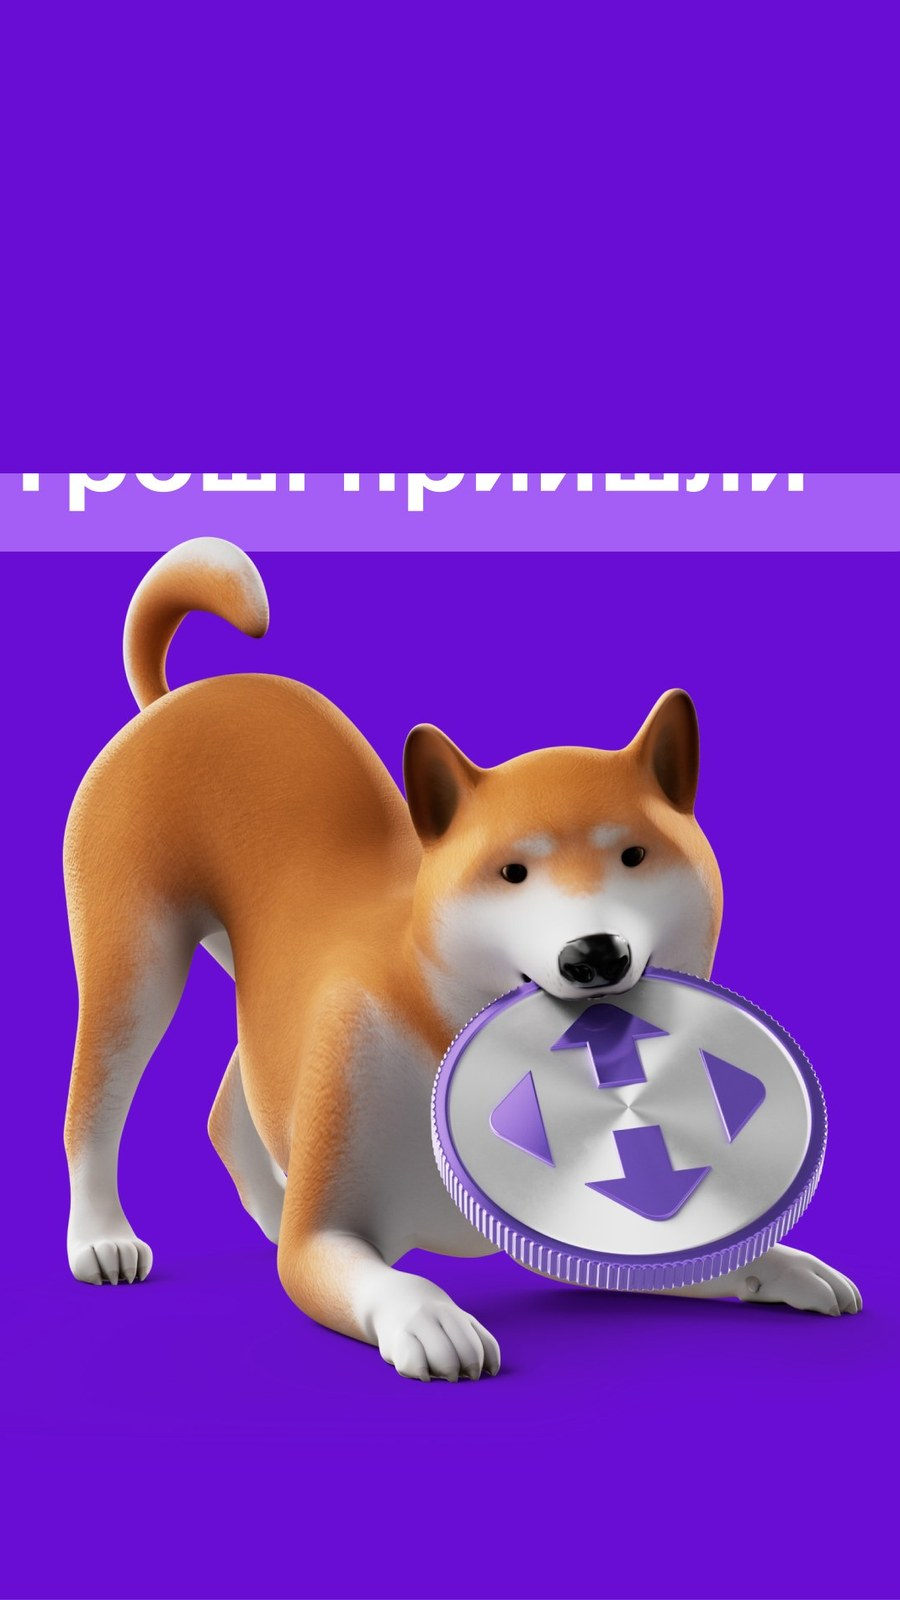
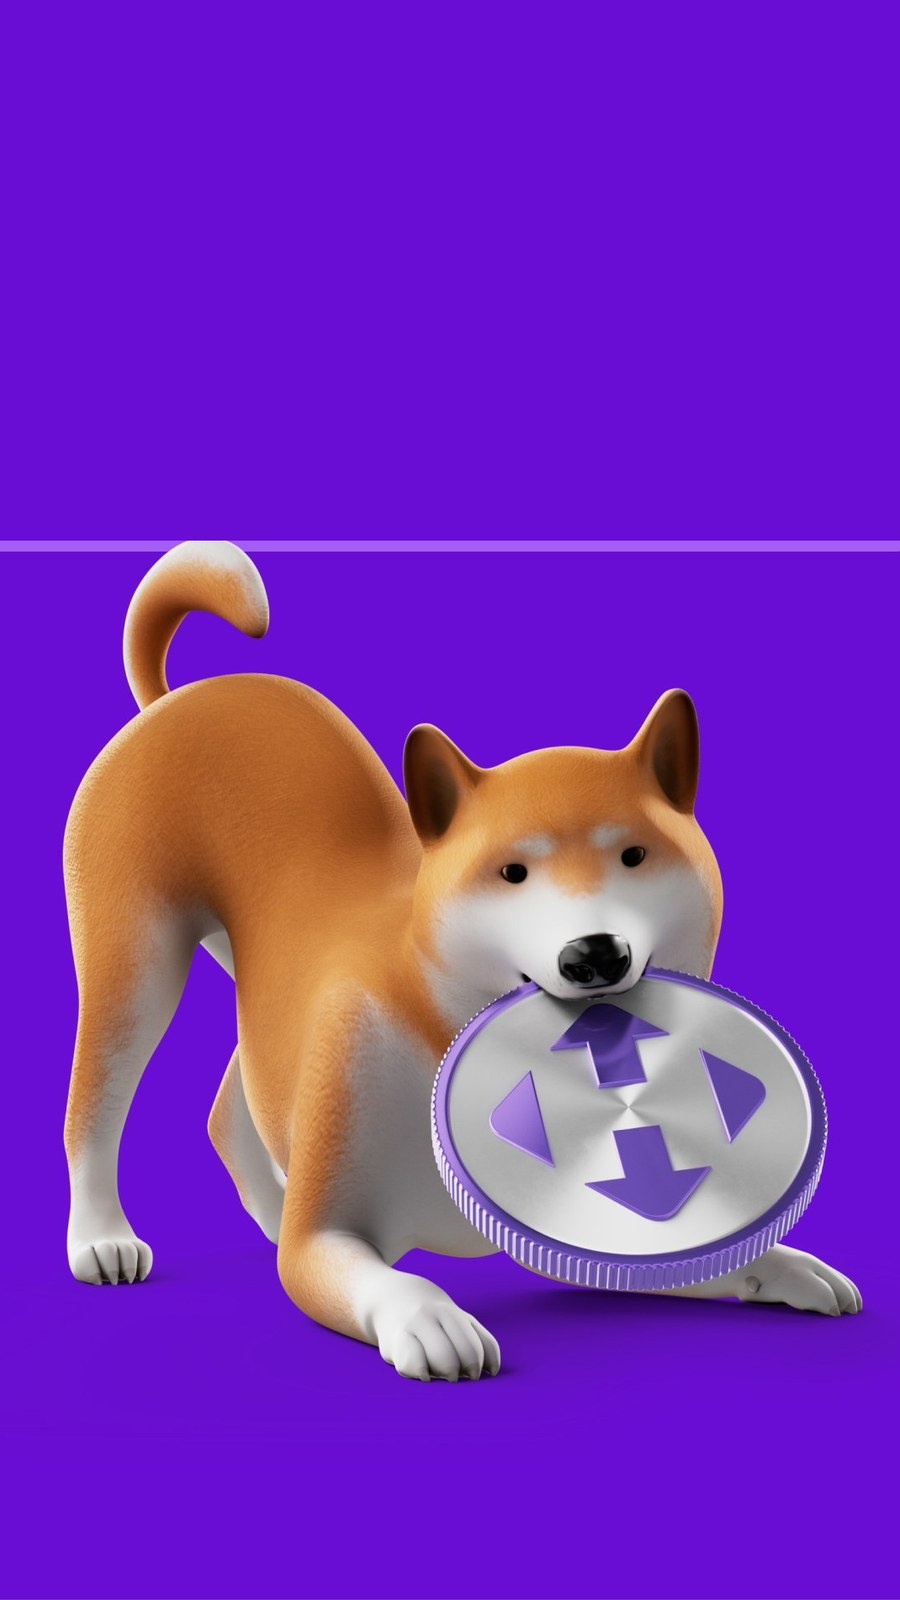
Презентація: аудит, раунд 4 — ч/б фото на розділах, кліренс як елемент, одна підсвітка рядка, вирівнювання шапок і карток, нумеровані пункти без маркера

Changed region(s): [[0.0, 0.2812, 1.0, 0.3438]]

diff --git a/components/deck/DeckPages.tsx b/components/deck/DeckPages.tsx
@@ -65,7 +65,9 @@ export const DECK_CSS = `
   #deck-a4 .t-gallery .lead{ font-size:calc(17pt * var(--k,1)); font-style:italic; color:var(--acc); }
 
   /* тіло сторінки */
-  #deck-a4 .pb{ display:flex; flex-direction:column; flex:1; min-height:0; padding-bottom:7mm; }
+  #deck-a4 .pb{ display:flex; flex-direction:column; flex:1; min-height:0; }
+  /* нижній кліренс як елемент (не padding): переповнення у нього рахується автопідбором */
+  #deck-a4 .sheet:not(.t-about):not(.t-cover):not(.t-section):not(.t-closing) .pb::after{ content:""; display:block; flex:none; height:7mm; }
   #deck-a4 .sheet[data-sparse] .pb{ justify-content:flex-start; padding-bottom:0; }
   #deck-a4 .t-cover .pb, #deck-a4 .t-section .pb, #deck-a4 .t-closing .pb{ display:contents; }
 
@@ -73,6 +75,8 @@ export const DECK_CSS = `
   #deck-a4 ul.bul{ list-style:none; margin-top:5mm; display:flex; flex-direction:column; gap:calc(2.6mm * var(--k,1)); max-width:180mm; }
   #deck-a4 ul.bul li{ position:relative; padding-left:6mm; font-size:calc(12.5pt * var(--k,1)); line-height:1.5; }
   #deck-a4 ul.bul li::before{ content:""; position:absolute; left:0; top:.55em; width:3.6pt; height:3.6pt; border-radius:99px; background:var(--amber); }
+  #deck-a4 ul.bul li[data-num]{ padding-left:0; }
+  #deck-a4 ul.bul li[data-num]::before{ display:none; }
   #deck-a4 ul.bul.sm li{ font-size:calc(10.8pt * var(--k,1)); line-height:1.45; }
   #deck-a4 ul.bul.sm{ gap:2mm; margin-top:3mm; }
 
@@ -96,7 +100,7 @@ export const DECK_CSS = `
   #deck-a4 .cols[data-n="3"]{ grid-template-columns:repeat(3,1fr); }
   #deck-a4 .cols[data-n="4"]{ grid-template-columns:repeat(4,1fr); column-gap:5mm; }
   #deck-a4 .cols[data-n="4"] .col{ padding:4mm 4.5mm 4.5mm; }
-  #deck-a4 .cols[data-n="4"] .col h3{ min-height:3.9em; }
+  #deck-a4 .cols[data-n="4"] .col h3, #deck-a4 .cols[data-n="3"] .col h3{ min-height:3.9em; }
   #deck-a4 .col h3{ font-family:var(--font-spectral),serif; font-style:italic; font-weight:500; font-size:calc(13.5pt * var(--k,1)); color:var(--acc); line-height:1.25; padding-bottom:2mm; border-bottom:1px solid var(--line); }
 
   /* steps */
@@ -108,12 +112,12 @@ export const DECK_CSS = `
 
   /* table */
   #deck-a4 table{ width:100%; border-collapse:collapse; margin-top:6mm; font-size:calc(10.5pt * var(--k,1)); line-height:1.42; }
-  #deck-a4 th{ text-align:left; font-family:var(--font-jetbrains),monospace; font-size:7.8pt; letter-spacing:.12em; text-transform:uppercase; color:var(--faint); padding:0 6mm 2.4mm 0; border-bottom:1px solid var(--ink); font-weight:500; }
+  #deck-a4 th{ text-align:left; vertical-align:bottom; font-family:var(--font-jetbrains),monospace; font-size:7.8pt; letter-spacing:.12em; text-transform:uppercase; color:var(--faint); padding:0 6mm 2.4mm 0; border-bottom:1px solid var(--ink); font-weight:500; }
   #deck-a4 td{ vertical-align:top; padding:calc(2.8mm * var(--k,1)) 3mm calc(2.8mm * var(--k,1)) 0; border-bottom:1px solid var(--line); }
   #deck-a4 td:first-child{ color:var(--acc); font-family:var(--font-spectral),serif; font-style:italic; font-size:calc(11pt * var(--k,1)); width:17%; }
   #deck-a4 table[data-num] td:first-child{ width:6%; white-space:nowrap; }
   #deck-a4 table[data-cols="4"]:not(.ws) td:nth-child(2){ width:34%; } #deck-a4 table[data-cols="4"]:not(.ws) td:nth-child(3){ width:22%; }
-  #deck-a4 table[data-num] td:nth-child(3){ width:24%; }
+  #deck-a4 table[data-num][data-cols="3"] td:nth-child(3), #deck-a4 table[data-num][data-cols="3"] th:nth-child(3){ width:42%; }
   #deck-a4 td[contenteditable]:empty{ min-height:6mm; display:block; }
 
   /* cover */
@@ -171,9 +175,9 @@ export const DECK_CSS = `
   #deck-a4 .t-about .stat:first-child{ border-left:0; padding-left:0; }
   #deck-a4 .t-about .stat .n{ font-family:var(--font-spectral),serif; font-style:italic; font-weight:500; font-size:22pt; line-height:1; color:var(--acc); }
   #deck-a4 .t-about .stat .t{ font-size:9pt; line-height:1.45; color:var(--muted); margin-top:2mm; }
-  #deck-a4 .t-about .bottom{ display:grid; grid-template-columns:1fr 1fr; column-gap:12mm; margin-top:5mm; align-items:start; }
+  #deck-a4 .t-about .bottom{ display:grid; grid-template-columns:1fr 1fr; column-gap:12mm; margin-top:3mm; align-items:start; }
   #deck-a4 .t-about .bottom ul.bul{ margin-top:3mm; gap:2mm; }
-  #deck-a4 .t-about .bottom ul.bul li{ font-size:9.4pt; line-height:1.45; }
+  #deck-a4 .t-about .bottom ul.bul li{ font-size:9.4pt; line-height:1.35; }
   #deck-a4 .t-about .note{ font-size:9.4pt; line-height:1.5; color:var(--ink); margin-top:3mm; }
   #deck-a4 .t-about .note:empty{ display:none; }
   #deck-a4 .t-about .logos{ display:block; width:100%; max-width:150mm; max-height:16mm; object-fit:contain; object-position:left; margin-top:6mm; }
@@ -192,7 +196,9 @@ export const DECK_CSS = `
   #deck-a4 .t-section .secimg.panel{ display:flex; align-items:center; justify-content:center; background:radial-gradient(120% 90% at 30% 20%,#7A45E6 0%,#5E2AC4 55%,#3F167F 100%); }
   #deck-a4 .t-section .secimg.panel img{ width:74%; height:auto; object-fit:contain; filter:drop-shadow(0 22px 34px rgba(20,0,60,.45)); }
   #deck-a4 .t-section.has-img .rh, #deck-a4 .t-section.has-img .foot{ margin-right:112mm; }
-  #deck-a4 .t-section.has-img .secwrap{ padding-right:112mm; position:relative; z-index:1; }
+  #deck-a4 .t-section.has-img .secwrap{ padding-right:112mm; position:relative; z-index:1; align-items:start; }
+  #deck-a4 .t-section.has-img .num{ margin-top:9mm; }
+  #deck-a4 .t-section.is-step .num{ margin-top:10mm; }
   #deck-a4 .t-section.has-img .num{ font-size:120pt; }
   #deck-a4 .t-section.is-step .num{ font-size:88pt; }
   #deck-a4 .t-section.is-step h1{ font-size:26pt; }
@@ -221,7 +227,7 @@ export const DECK_CSS = `
   #deck-a4 .cards[data-n="7"] .card .t, #deck-a4 .cards[data-n="8"] .card .t{ font-size:calc(10.5pt * var(--k,1)); }
 
   /* ── репліки (bullets variant=bubbles) ── */
-  #deck-a4 .bubbles{ display:flex; flex-direction:column; gap:calc(3mm * var(--k,1)); margin-top:6mm; max-width:215mm; }
+  #deck-a4 .bubbles{ display:flex; flex-direction:column; gap:calc(3mm * var(--k,1)); margin-top:6mm; max-width:215mm; padding-bottom:3mm; }
   #deck-a4 .bubble{ position:relative; align-self:flex-start; background:var(--band); border-radius:12px 12px 12px 3px; padding:3.2mm 6mm 3.2mm 9mm; font-family:var(--font-spectral),serif; font-style:italic; font-size:calc(12.5pt * var(--k,1)); line-height:1.4; max-width:190mm; }
   #deck-a4 .bubble::before{ content:"“"; position:absolute; left:3mm; top:1.2mm; font-family:var(--font-playfair),serif; font-size:calc(20pt * var(--k,1)); line-height:1; color:var(--amber); font-style:normal; }
   #deck-a4 .bubble:nth-child(even){ margin-left:0; }
@@ -232,7 +238,7 @@ export const DECK_CSS = `
   #deck-a4 .cols{ align-items:stretch; }
 
   /* ── кроки як таймлайн ── */
-  #deck-a4 .step{ grid-template-columns:8mm 80mm 1fr; column-gap:5mm; border-top:0; padding:calc(3.6mm * var(--k,1)) 0; align-items:start; }
+  #deck-a4 .step{ grid-template-columns:8mm var(--lw,80mm) 1fr; column-gap:5mm; border-top:0; padding:calc(3.6mm * var(--k,1)) 0; align-items:start; }
   #deck-a4 .step::before{ content:""; position:absolute; left:2.9mm; top:0; bottom:0; width:1px; background:var(--line); }
   #deck-a4 .step{ position:relative; }
   #deck-a4 .step:first-child::before{ top:50%; }
@@ -244,15 +250,15 @@ export const DECK_CSS = `
   #deck-a4 .qp{ display:grid; grid-template-columns:1fr 128mm; gap:16mm; flex:1; align-items:center; min-height:0; margin-top:4mm; }
   #deck-a4 .qp .q{ font-family:var(--font-spectral),serif; font-style:italic; font-size:26pt; line-height:1.32; color:var(--ink); max-width:130mm; }
   #deck-a4 .qp .q::before{ content:"“"; display:block; font-family:var(--font-playfair),serif; font-style:normal; font-size:80pt; line-height:.55; color:var(--amber); margin-bottom:4mm; }
-  #deck-a4 .qp .fig{ width:128mm; height:118mm; overflow:hidden; border-radius:5px; box-shadow:0 14px 34px rgba(60,40,15,.18); }
-  #deck-a4 .qp .fig img{ width:100%; height:100%; object-fit:cover; object-position:center 30%; display:block; }
+  #deck-a4 .qp .fig{ width:128mm; height:118mm; overflow:hidden; border-radius:0; box-shadow:none; }
+  #deck-a4 .qp .fig img{ width:100%; height:100%; object-fit:cover; object-position:42% 28%; display:block; transform:scale(1.28); transform-origin:42% 28%; }
 
   /* ── галерея психотипів: кольорова смуга ── */
   #deck-a4 .gal[data-chip="red"] img{ border-top:5pt solid #D9342B; }
   #deck-a4 .gal[data-chip="yellow"] img{ border-top:5pt solid #F2C230; }
   #deck-a4 .gal[data-chip="blue"] img{ border-top:5pt solid #2F62C7; }
   #deck-a4 .gal img{ height:108mm; box-shadow:0 10px 26px rgba(60,40,15,.14); object-position:center 25%; }
-  #deck-a4 .gal figure:has(figcaption:not(:empty)) img{ object-fit:cover; object-position:center; height:100mm; }
+  #deck-a4 .gal figure:has(figcaption:not(:empty)) img{ object-fit:cover; object-position:center; height:100mm; mix-blend-mode:multiply; border:0; }
 
   /* ── таблиці: зебра ── */
   #deck-a4 tbody tr:nth-child(even) td{ background:rgba(244,236,220,.55); }
@@ -276,6 +282,7 @@ export const DECK_CSS = `
   #deck-a4 .card .t:empty{ flex:1; min-height:22mm; background:linear-gradient(to top,var(--line) .25mm,transparent .25mm) left bottom / 100% 8.6mm repeat-y; }
   /* ── таблиця психотипів після галереї: активний рядок ── */
   #deck-a4 table[data-hl] tr[data-chip]{ opacity:.74; }
+  #deck-a4 table[data-hl] tbody tr td{ background:transparent; }
   #deck-a4 table[data-hl="red"] tr[data-chip="red"], #deck-a4 table[data-hl="yellow"] tr[data-chip="yellow"], #deck-a4 table[data-hl="blue"] tr[data-chip="blue"]{ opacity:1; }
   #deck-a4 table[data-hl="red"] tr[data-chip="red"] td, #deck-a4 table[data-hl="yellow"] tr[data-chip="yellow"] td, #deck-a4 table[data-hl="blue"] tr[data-chip="blue"] td{ background:var(--band) !important; }
   /* ── заголовки: без пробілу після дефіса, без розриву «5‑й» ── */
@@ -375,7 +382,7 @@ function EList({
       }}
     >
       {items.map((it, i) => (
-        <li key={i}>{typo(it)}</li>
+        <li key={i} data-num={/^\s*\d+\s*[.)]/.test(it) ? "1" : undefined}>{typo(it)}</li>
       ))}
     </ul>
   );
@@ -691,7 +698,7 @@ function PageBody({ p, set, editable, prev }: { p: DeckPage; set: Patch; editabl
         <WithImg image={p.image}>
           <Title p={p} set={set} editable={e} />
           <E tag="p" className="lead" value={p.lead} onChange={(v) => set({ lead: v })} editable={e} ph="лід" />
-          <div className="steps">
+          <div className="steps" style={{ ["--lw" as any]: (() => { const m = Math.max(0, ...p.steps.map((x) => x.head.length)); return m <= 16 ? "58mm" : m <= 34 ? "80mm" : "100mm"; })() } as any}>
             {p.steps.map((st, k) => (
               <div className="step" key={k}>
                 <span className="dot" />

diff --git a/lib/decks/novapay.ts b/lib/decks/novapay.ts
@@ -142,18 +142,18 @@ export const NOVAPAY_DECK: Deck = {
     // 30
     { id: "s30", type: "bullets", title: "Структура", titleEm: "телефонної розмови", lead: "", items: ["Підготовка та планування дзвінка", "Привітання та налагодження контакту.", "Виявлення / формування потреб", "Презентація рішення.", "Робота з запереченнями / сумнівами.", "Перехід до дії і узгодження наступних кроків.", "Завершення розмови."], callout: "" },
     // 31
-    { id: "s31", type: "section", num: "1", title: "1-й крок. Підготовка та планування дзвінка", sub: "", image: I + "tania-laptop.jpg" },
+    { id: "s31", type: "section", num: "1", title: "1-й крок. Підготовка та планування дзвінка", sub: "", image: I + "tania-laptop-bw2.jpg" },
     // 32
     { id: "s32", type: "bullets", variant: "cards", title: "Підготовка", titleEm: "до дзвінку", lead: "Ціль дзвінка:", items: ["1) продати — продукти, сервіси", "2) вирішити / відповісти на питання;", "3) перенаправити до іншого відділу.", "позитивне налаштування", "закохати в NovaPay"], callout: "" },
     // 33
-    { id: "s33", type: "section", num: "2", title: "2-й крок. Привітання та налагодження контакту", sub: "", image: I + "tania-mic.jpg" },
+    { id: "s33", type: "section", num: "2", title: "2-й крок. Привітання та налагодження контакту", sub: "", image: I + "tania-hall-bw.jpg" },
     // 34
     { id: "s34", type: "twocol", title: "Структура телефонних продажів.", titleEm: "1. Привітання та налагодження контакту", lead: "Створюємо рапорт — формуємо підсвідому довіру клієнта!", cols: [
       { head: "Що працює", items: ["Позитивний настрой", "Smart talk / комплімент", "Звертайтесь по імені (це завжди залучає в діалог)"] },
       { head: "Три табу", items: ["Політика", "Релігія", "Секс"] },
     ] },
     // 35
-    { id: "s35", type: "section", num: "", title: "Психотипи клієнтів — правила взаємодії", sub: "", image: I + "tania-hall.jpg" },
+    { id: "s35", type: "section", num: "", title: "Психотипи клієнтів — правила взаємодії", sub: "", image: I + "tania-chair-bw.jpg" },
     // 36
     { id: "s36", type: "twocol", title: "Психологічні", titleEm: "типи клієнтів", lead: "", cols: [
       { head: "Червоний — діяльність та активність", items: ["1. Статус / визнання"] },
@@ -193,7 +193,7 @@ export const NOVAPAY_DECK: Deck = {
       ["1", "Хто довго пам'ятає критику на свою адресу?", "Червоний"], ["2", "Хто любить ретельно / детально планувати?", "Синій"], ["3", "Кому подобається займатися підрахунками та аналітикою?", "Синій"], ["4", "Хто любить «перемити кісточки» друзям / знайомим?", "Жовтий"], ["5", "У кого не вистачає терпіння детально планувати?", "Жовтий"], ["6", "Кому подобається приймати рішення у складних ситуаціях?", "Червоний"], ["7", "Хто краще згладжує конфлікт зі складними «клієнтами»?", "Жовтий"], ["8", "Хто часто запізнюється? (ч — королів чекають, ж — я не слідкую за часом)", "Черв / жовт"], ["9", "Нічого особистого, просто бізнес.", "Червоний"], ["10", "Кому важливо мати якомога більше фактів для прийняття рішення?", "Синій"],
     ], callout: "" },
     // 45
-    { id: "s45", type: "section", num: "3", title: "3-й крок. Виявлення / формування потреб в телефонних продажах", sub: "", image: I + "tania-flip.jpg" },
+    { id: "s45", type: "section", num: "3", title: "3-й крок. Виявлення / формування потреб в телефонних продажах", sub: "", image: I + "tania-flip-bw.jpg" },
     // 46
     { id: "s46", type: "twocol", title: "Структура телефонних продажів. 2-й крок.", titleEm: "Типи питань", lead: "", cols: [
       { head: "Закриті запитання", items: ["Дають мало інформації;", "Відповідь так чи ні;", "Потрібні для перевірки або завершення."] },
@@ -215,7 +215,7 @@ export const NOVAPAY_DECK: Deck = {
     // 50
     { id: "s50", type: "bullets", variant: "cards", title: "Структура телефонних продажів. 2-й крок.", titleEm: "Активне слухання", lead: "", items: ["1. Розуміння стану співрозмовника.", "2. Розуміння позиції співрозмовника.", "3. Постійно «показуємо», що ми чуємо.", "4. Увага до деталей."], callout: "Головне правило: 1 питання — 1 відповідь + :)" },
     // 51
-    { id: "s51", type: "section", num: "4", title: "4-й крок. Презентація рішення — ХПВ (характеристика-перевага-вигода)", sub: "", image: I + "tania-chair.jpg" },
+    { id: "s51", type: "section", num: "4", title: "4-й крок. Презентація рішення — ХПВ (характеристика-перевага-вигода)", sub: "", image: I + "tania.jpg" },
     // 52
     { id: "s52", type: "twocol", title: "Презентація рішень", titleEm: "на основі потреб клієнта", lead: "Х — Характеристики · П — Переваги · В — Вигоди", cols: [
       { head: "Характеристика", items: ["Паспорт", "1) __________", "2) __________", "3) __________", "4) __________", "5) __________", "6) __________"] },
@@ -224,7 +224,7 @@ export const NOVAPAY_DECK: Deck = {
     // 53
     { id: "s53", type: "table", title: "Презентація рішення —", titleEm: "ХПВ", lead: "Презентація рішень на основі потреб клієнта", head: ["Характеристика", "З'єднувальна фраза", "Перевага"], rows: [["", "А це означає…", ""], ["", "Тому…", ""], ["", "Відповідно…", ""]], callout: "" },
     // 54
-    { id: "s54", type: "section", num: "5", title: "5-й крок. Отримай від клієнта ТАК! Обробка заперечень та сумнівів клієнтів", sub: "", image: I + "tania-face.jpg" },
+    { id: "s54", type: "section", num: "5", title: "5-й крок. Отримай від клієнта ТАК! Обробка заперечень та сумнівів клієнтів", sub: "", image: I + "tania-mic-bw.jpg" },
     // 55
     { id: "s55", type: "twocol", title: "Робота з запереченнями —", titleEm: "3 типи заперечень", lead: "", cols: [
       { head: "1. Заперечення контакту", items: ["Не маю часу…", "Навіщо ви мені телефонуєте…", "Залиште інформацію…"] },
@@ -246,6 +246,6 @@ export const NOVAPAY_DECK: Deck = {
     // 60
     { id: "s60", type: "table", title: "Action", titleEm: "plan", lead: "Що потрібно зробити після нашої зустрічі — перші 3 кроки?", head: ["#", "Захід / дія", "Як зрозумію, що досяг — індикатори досягнення", "Терміни / період-ть"], rows: [["1.", "", "", ""], ["2.", "", "", ""], ["3.", "", "", ""]], callout: "" },
     // 61
-    { id: "s61", type: "closing", title: "Дякую", titleEm: "за активність", sub: "Підписуйтесь на мій Інстаграм: @tetiana_pan.sales", contacts: ["+38 067 007 0710", "+38 050 448 1411", "+38 066 730 6237"], image: I + "tania-laptop-bw.jpg", qr: I + "qr-instagram.svg" },
+    { id: "s61", type: "closing", title: "Дякую", titleEm: "за активність", sub: "Підписуйтесь на мій Інстаграм: @tetiana_pan.sales", contacts: ["+38 067 007 0710", "+38 050 448 1411", "+38 066 730 6237"], image: I + "tania-laptop-2.jpg", qr: I + "qr-instagram.svg" },
   ],
 };
